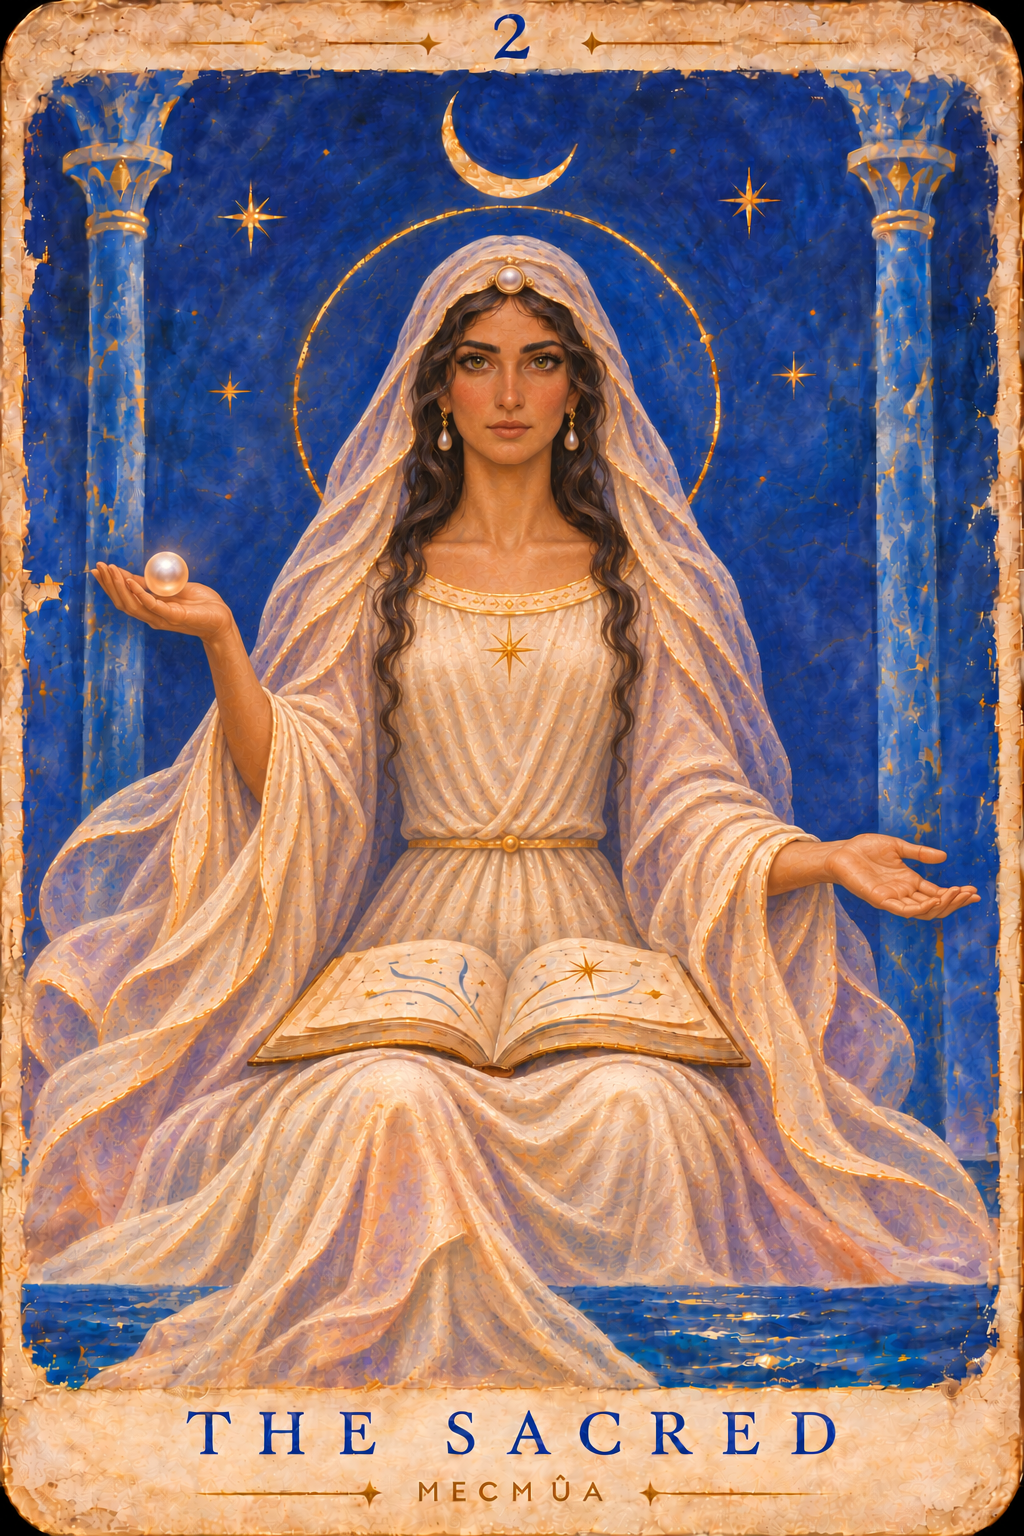
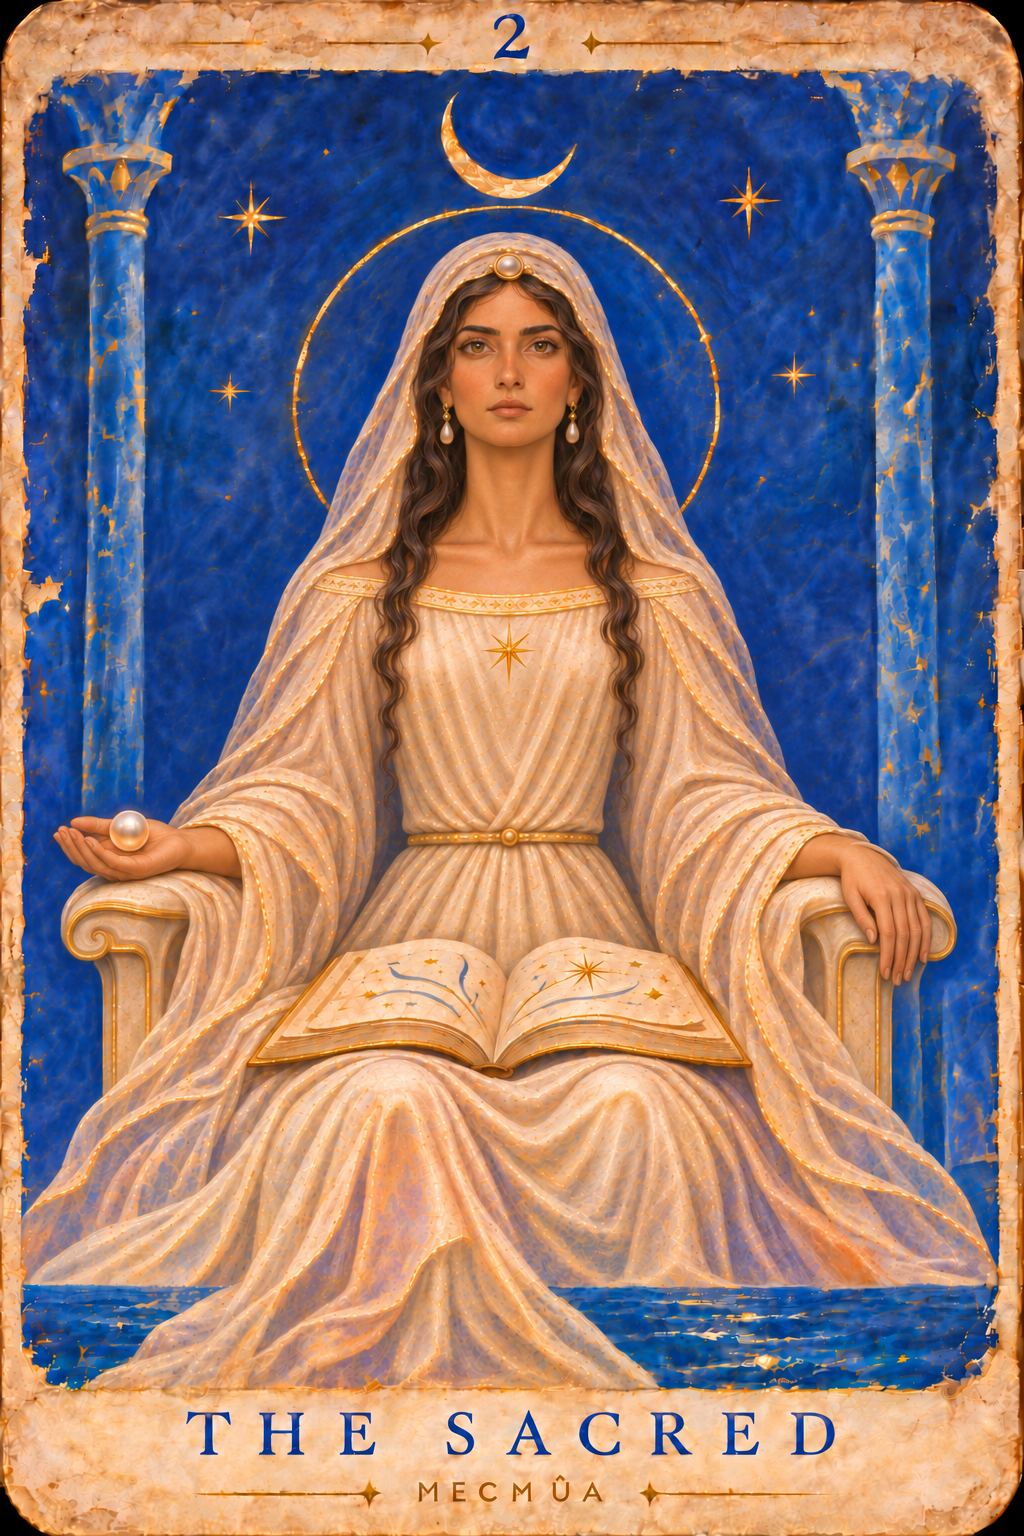
Back up accessible Mecmua tarot artwork and version catalogue

diff --git a/design-previews/tarot-deck/README.md b/design-previews/tarot-deck/README.md
@@ -5,8 +5,8 @@
 - 2 · The Sacred: Saved local file. Saved chair version with left palm down; head raised slightly. Exact reattached version not accessible as a file.
 - 3 · Mother Nature: Saved local file. 
 - 4 · The Foundation: Saved local file. Recreated after original output was inaccessible.
-- 5 · The Bearer of Knowledge: Visible in chat; attached image bytes not accessible through current tools; NOT backed up. 
-- 6 · Loving Choices: Visible in chat; attached image bytes not accessible through current tools; NOT backed up. 
+- 5 · The Bearer of Knowledge: Saved local file. Recreated after original output was inaccessible.
+- 6 · Loving Choices: Saved local file. Recreated after original output was inaccessible.
 - 7 · The Time Is Now: Saved local file. 
 
-Original accessible versions are preserved in versions/. No files for cards 5 or 6 are present yet; do not claim this backup contains all eight cards.
+Original accessible versions are preserved in versions/. All eight card files are present. Cards 1, 4, 5 and 6 are recreations; earlier versions are retained.
